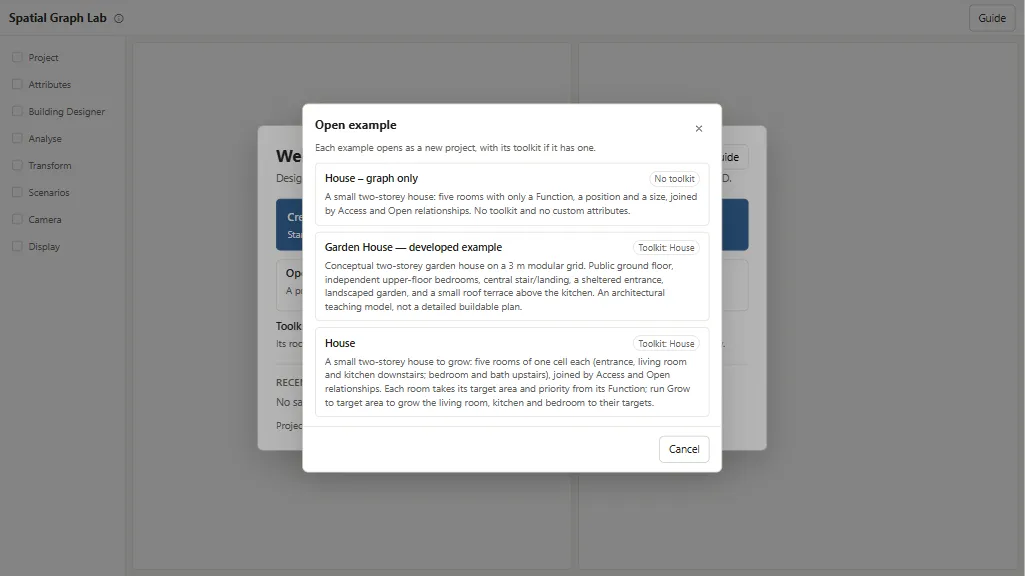
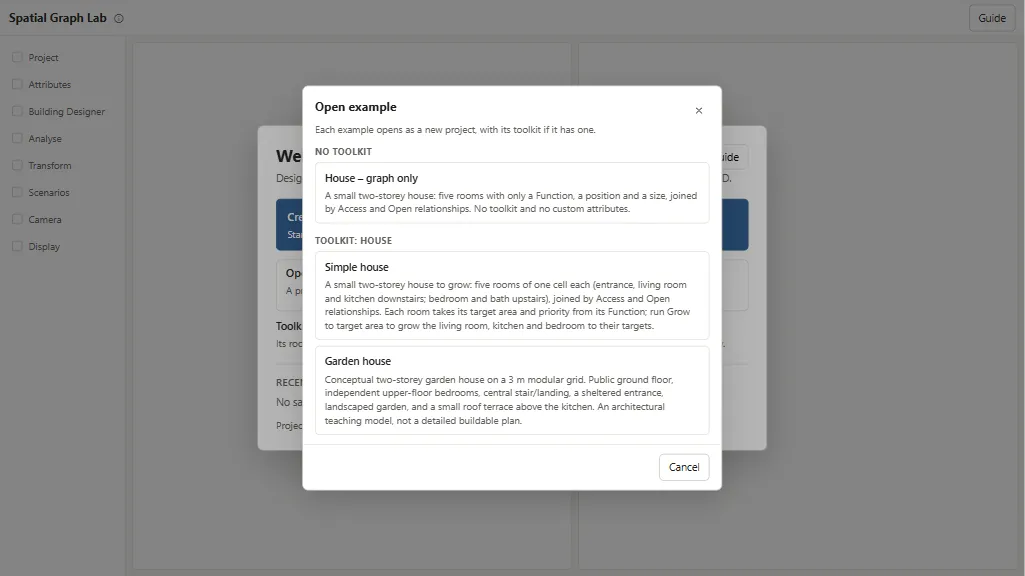
feat(welcome): Open example in sections; Simple house first
- Open example groups examples under "No toolkit" (House - graph only)
  and "Toolkit: House"; a toolkit's default design is listed first.
- House designs named after their files: "Simple house" and
  "Garden house". Guide text, README, tests and the Open example
  screenshot updated.

diff --git a/app/welcome/OpenExampleDialog.tsx b/app/welcome/OpenExampleDialog.tsx
@@ -1,6 +1,6 @@
 import { useEffect, useState } from 'react';
 import { Dialog } from '@app/ui/Dialog';
-import type { ExampleChoice, ExampleOption } from './welcomeModel';
+import { exampleSections, type ExampleChoice, type ExampleOption } from './welcomeModel';
 
 type ListState =
   | { readonly status: 'loading' }
@@ -8,9 +8,9 @@ type ListState =
   | { readonly status: 'error'; readonly message: string };
 
 /**
- * Open example… (owner decision 2026-11-20), from Welcome and the Project panel: the built-in House
- * (graph only, no toolkit) and every design of every toolkit, each with its name, description and
- * a "No toolkit" / "Toolkit: <name>" tag. Choosing one closes the dialog and opens it as a NEW
+ * Open example… (owner decision 2026-11-20), from Welcome and the Project panel, in sections: "No
+ * toolkit" (the built-in House, graph only), then one "Toolkit: <name>" section per toolkit with its
+ * designs (its default design first), each with its name and description. Choosing one closes the dialog and opens it as a NEW
  * project (`onOpen`); the list is loaded when the dialog opens (`load`).
  */
 export function OpenExampleDialog({
@@ -57,29 +57,30 @@ export function OpenExampleDialog({
           The examples could not be listed: {state.message}
         </p>
       )}
-      {state.status === 'ready' && (
-        <ul className="sgl-example-list" aria-label="Examples">
-          {state.items.map((option, index) => (
-            <li key={option.key}>
-              <button
-                type="button"
-                className="sgl-example"
-                data-example={option.key}
-                {...(index === 0 && { 'data-autofocus': true })}
-                disabled={option.problem !== null}
-                onClick={() => onOpen(option.choice)}
-              >
-                <span className="sgl-example-head">
-                  <span className="sgl-example-name">{option.name}</span>
-                  <span className="sgl-example-tag">{option.tag}</span>
-                </span>
-                {option.description && <span className="sgl-example-description">{option.description}</span>}
-                {option.problem && <span className="sgl-example-problem">⚠ {option.problem}</span>}
-              </button>
-            </li>
-          ))}
-        </ul>
-      )}
+      {state.status === 'ready' &&
+        exampleSections(state.items).map((section, s) => (
+          <section key={section.title} className="sgl-example-section" data-example-section={section.title}>
+            <h3 className="sgl-example-section-title">{section.title}</h3>
+            <ul className="sgl-example-list" aria-label={section.title}>
+              {section.items.map((option, index) => (
+                <li key={option.key}>
+                  <button
+                    type="button"
+                    className="sgl-example"
+                    data-example={option.key}
+                    {...(s === 0 && index === 0 && { 'data-autofocus': true })}
+                    disabled={option.problem !== null}
+                    onClick={() => onOpen(option.choice)}
+                  >
+                    <span className="sgl-example-name">{option.name}</span>
+                    {option.description && <span className="sgl-example-description">{option.description}</span>}
+                    {option.problem && <span className="sgl-example-problem">⚠ {option.problem}</span>}
+                  </button>
+                </li>
+              ))}
+            </ul>
+          </section>
+        ))}
     </Dialog>
   );
 }

diff --git a/app/welcome/welcome.test.ts b/app/welcome/welcome.test.ts
@@ -13,7 +13,7 @@ import exampleJson from '../document/examples/house.json';
 import { exportProject, NewProjectDialog, ProjectFiles } from './ProjectFiles';
 import { Welcome, type WelcomeProps } from './Welcome';
 import { createProject, openProjectText, openToolkitExample, openBuiltInExample, type WelcomeHost } from './welcomeFlow';
-import { exampleOptions, newProjectStart, projectFileName, recentRows } from './welcomeModel';
+import { exampleOptions, exampleSections, newProjectStart, projectFileName, recentRows } from './welcomeModel';
 import { designAssetIds, loadToolkitAssets } from '@app/extensions/toolkitExamples';
 import { importFacade3dm } from '@app/assets/importFacade';
 import { loadRhino3dm, RHINO3DM_VERSION } from '@app/assets/rhino/loader';
@@ -302,15 +302,20 @@ describe('Open example… (owner decision 2026-11-20)', () => {
 
   it('lists the built-in House first, then every toolkit design with its own name, description and toolkit tag', () => {
     const options = exampleOptions({ name: 'House – graph only', description: ' Five rooms. ' }, [
-      { toolkitId: 'house', toolkitName: 'House', designId: 'simple-house', name: 'House', description: null, problem: null },
-      { toolkitId: 'house', toolkitName: 'House', designId: 'garden-house', name: 'Garden House', description: 'Developed.', problem: null },
+      { toolkitId: 'house', toolkitName: 'House', designId: 'simple-house', name: 'Simple house', description: null, problem: null },
+      { toolkitId: 'house', toolkitName: 'House', designId: 'garden-house', name: 'Garden house', description: 'Developed.', problem: null },
     ]);
     expect(options.map((o) => [o.key, o.name, o.description, o.tag])).toEqual([
       ['built-in', 'House – graph only', 'Five rooms.', 'No toolkit'],
-      ['house/simple-house', 'House', null, 'Toolkit: House'],
-      ['house/garden-house', 'Garden House', 'Developed.', 'Toolkit: House'],
+      ['house/simple-house', 'Simple house', null, 'Toolkit: House'],
+      ['house/garden-house', 'Garden house', 'Developed.', 'Toolkit: House'],
     ]);
     expect(options[2]!.choice).toEqual({ kind: 'toolkit', toolkitId: 'house', designId: 'garden-house' });
+    // The dialog shows them in sections: No toolkit, then Toolkit: House (Simple house, then Garden house).
+    expect(exampleSections(options).map((sec) => [sec.title, sec.items.map((o) => o.name)])).toEqual([
+      ['No toolkit', ['House – graph only']],
+      ['Toolkit: House', ['Simple house', 'Garden house']],
+    ]);
   });
 
   it('opens the Garden House as a NEW project: toolkit active, custom attributes seeded, design and its façade asset', async () => {
@@ -321,7 +326,7 @@ describe('Open example… (owner decision 2026-11-20)', () => {
     if (!opened.ok) throw new Error(opened.message);
     expect(opened.projectId).not.toBe(first.projectId);
     const p = h.controller.getState().project!;
-    expect(p.meta.name).toBe('Garden House — developed example');
+    expect(p.meta.name).toBe('Garden house');
     expect(p.meta.description).toMatch(/^Conceptual two-storey garden house/);
     expect(p.meta.toolkit).toEqual({ id: 'house' });
     // The same attribute record as Create project with House (Target area, Priority).

diff --git a/app/extensions/toolkitExamples.ts b/app/extensions/toolkitExamples.ts
@@ -34,28 +34,31 @@ export interface ToolkitExample {
   readonly problem: string | null;
 }
 
-async function toolkitName(load: () => Promise<unknown>, fallback: string): Promise<string> {
+/** The toolkit's name and default design (its id and none when `toolkit.ts` cannot be read). */
+async function toolkitInfo(load: () => Promise<unknown>, fallback: string): Promise<{ readonly name: string; readonly defaultDesign: string | null }> {
   try {
     const mod = await load();
     const definition = typeof mod === 'object' && mod !== null && 'default' in mod ? (mod as { default: unknown }).default : undefined;
     const parsed = toolkitDefinitionSchema.safeParse(definition);
-    return parsed.success ? parsed.data.name : fallback;
+    return parsed.success ? { name: parsed.data.name, defaultDesign: parsed.data.defaultDesign ?? null } : { name: fallback, defaultDesign: null };
   } catch {
-    return fallback;
+    return { name: fallback, defaultDesign: null };
   }
 }
 
 /**
- * Every design of every toolkit, toolkits by id, designs by file. Loads each `toolkit.ts` (for
- * its name) and each design's text; never activates a toolkit. A design that cannot be read is
+ * Every design of every toolkit, toolkits by id; within a toolkit its `defaultDesign` first, then
+ * the others by file (owner 2026-11-20). Loads each `toolkit.ts` (for its name and default design)
+ * and each design's text; never activates a toolkit. A design that cannot be read is
  * listed with its `problem`, so it is not silently missing.
  */
 export async function listToolkitExamples(globs: ToolkitGlobs): Promise<readonly ToolkitExample[]> {
   const out: ToolkitExample[] = [];
   for (const source of discoverToolkits(globs).toolkits) {
     if (source.designs.length === 0) continue;
-    const name = await toolkitName(source.toolkit.load, source.id);
-    for (const design of source.designs) {
+    const { name, defaultDesign } = await toolkitInfo(source.toolkit.load, source.id);
+    const designs = [...source.designs].sort((a, b) => Number(b.stem === defaultDesign) - Number(a.stem === defaultDesign));
+    for (const design of designs) {
       const base = { toolkitId: source.id, toolkitName: name, designId: design.stem, file: design.file };
       try {
         const read = readDesignJson(await design.load());

diff --git a/app/ui/guide/screenshots.ts b/app/ui/guide/screenshots.ts
@@ -19,7 +19,7 @@ export const CAPTURED_SHOTS: Readonly<Record<string, CapturedShot>> = captured a
 /** Alt text per entry id (what the screenshot shows and what each marker points at). */
 export const SHOT_ALT: Readonly<Record<string, string>> = {
   'howto-start': 'The Welcome screen: 1 Create project, 2 Open project, 3 Open example…, 4 Recent projects.',
-  'howto-open-example': 'Open example… over the Welcome screen: 1 the Open example dialog, listing House – graph only (No toolkit) and the House designs, 2 Garden House, a design tagged Toolkit: House.',
+  'howto-open-example': 'Open example… over the Welcome screen: 1 the Open example dialog, listing House – graph only (No toolkit) and the House designs, 2 Garden house, a design in the Toolkit: House section.',
   'howto-select-inspect': 'The app with the Living room selected: 1 the node in Graph 2D, 2 the same room highlighted in the Building view, 3 its attributes in Properties.',
   'howto-add-room': 'A new room 6 added: 1 the + Add node button, 2 its Function in Properties, 3 its Position and Size.',
   'howto-connect': 'A new relationship Entrance–Bath: 1 the Entrance node, 2 the Add connection… button, 3 the Bath node, 4 Access or Open in Properties.',

diff --git a/app/welcome/welcome.css b/app/welcome/welcome.css
@@ -475,7 +475,7 @@ input.sgl-project-name-input:focus {
   font-size: 13px;
 }
 
-/* Open example… (2026-11-20): one button per example, name + tag on one row, description below. */
+/* Open example… (2026-11-20): sections (No toolkit, Toolkit: <name>), one button per example, name then description. */
 .sgl-open-example {
   width: min(560px, calc(100vw - 32px));
 }
@@ -511,24 +511,20 @@ input.sgl-project-name-input:focus {
   opacity: 0.7;
   cursor: default;
 }
-.sgl-example-head {
-  display: flex;
-  align-items: baseline;
-  justify-content: space-between;
-  gap: 12px;
+.sgl-example-section + .sgl-example-section {
+  margin-top: 14px;
+}
+.sgl-example-section-title {
+  margin: 0 0 6px;
+  color: var(--muted);
+  font-size: 12px;
+  font-weight: 650;
+  letter-spacing: 0.04em;
+  text-transform: uppercase;
 }
 .sgl-example-name {
   font-weight: 600;
   overflow-wrap: anywhere;
-}
-.sgl-example-tag {
-  flex: none;
-  padding: 1px 6px;
-  border: 1px solid var(--line);
-  border-radius: 999px;
-  color: var(--muted);
-  font-size: 12px;
-  white-space: nowrap;
 }
 .sgl-example-description {
   color: var(--muted);

diff --git a/app/ui/guide/content.ts b/app/ui/guide/content.ts
@@ -403,7 +403,7 @@ const TEXT: readonly GuideTabContent[] = [
         id: 'howto-open-example',
         title: 'Open an example',
         summary: 'Open example… opens a built-in or toolkit example as a new project, ready to explore; the project you had open is not changed.',
-        example: '1. Open example… on Welcome or in Project. 2. Pick one: House – graph only (No toolkit), or a design tagged Toolkit: House, e.g. House or Garden House. 3. It opens with its toolkit and custom attributes, its looks by Function, its corridors and any imported façade. 4. Set a view to Building to see it.',
+        example: '1. Open example… on Welcome or in Project. 2. Pick one: House – graph only (No toolkit), or a design under Toolkit: House: Simple house or Garden house. 3. It opens with its toolkit and custom attributes, its looks by Function, its corridors and any imported façade. 4. Set a view to Building to see it.',
         diagram: 'howto-open-example',
         learnMore: LINKS.envelope,
       },

diff --git a/app/welcome/welcomeModel.ts b/app/welcome/welcomeModel.ts
@@ -76,6 +76,20 @@ export function exampleOptions(
   ];
 }
 
+/**
+ * The examples in sections, in list order: one per tag ("No toolkit", then "Toolkit: <name>" per
+ * toolkit), each keeping its examples' order.
+ */
+export function exampleSections(options: readonly ExampleOption[]): { readonly title: string; readonly items: readonly ExampleOption[] }[] {
+  const sections: { title: string; items: ExampleOption[] }[] = [];
+  for (const option of options) {
+    const section = sections.find((s) => s.title === option.tag);
+    if (section) section.items.push(option);
+    else sections.push({ title: option.tag, items: [option] });
+  }
+  return sections;
+}
+
 export type RecentRow =
   | { readonly kind: 'ok'; readonly projectId: string; readonly name: string; readonly detail: string; readonly description: string | null; readonly unsaved: boolean }
   | { readonly kind: 'unreadable'; readonly projectId: string; readonly detail: string; readonly quarantined: boolean };

diff --git a/app/extensions/toolkitExamples.test.ts b/app/extensions/toolkitExamples.test.ts
@@ -54,11 +54,11 @@ describe('toolkit examples (Open example…)', () => {
     expect(examples.map((e) => e.toolkitName)).toEqual(['odd']);
   });
 
-  it('lists the two House designs of the repository, all openable', async () => {
+  it('lists the two House designs of the repository, the default design (simple-house) first, all openable', async () => {
     const house = (await listToolkitExamples(TOOLKIT_GLOBS)).filter((e) => e.toolkitId === 'house');
     expect(house.map((e) => [e.designId, e.name, e.toolkitName, e.problem])).toEqual([
-      ['garden-house', 'Garden House — developed example', 'House', null],
-      ['simple-house', 'House', 'House', null],
+      ['simple-house', 'Simple house', 'House', null],
+      ['garden-house', 'Garden house', 'House', null],
     ]);
   });
 });

diff --git a/app/extensions/houseToolkit.test.ts b/app/extensions/houseToolkit.test.ts
@@ -180,7 +180,7 @@ describe('the garden house design', () => {
 
   it('is valid, uses only House Functions, and every relationship is direct (its rooms touch)', () => {
     const doc = gardenHouse();
-    expect(doc.metadata.name).toBe('Garden House — developed example');
+    expect(doc.metadata.name).toBe('Garden house');
     expect(doc.nodes).toHaveLength(14);
     expect(doc.edges).toHaveLength(14);
     const ids = new Set(house.functions.map((t) => t.definition.id));

diff --git a/toolkits/house/README.md b/toolkits/house/README.md
@@ -15,9 +15,9 @@ The reference toolkit of Spatial Graph Lab. Don't edit this folder: copy it to m
   To change one room, select it and set the value in **Properties**. The other rooms keep their Function's default.
 - **One transform**, *Grow to target area* (`algorithms/grow-to-target-area.ts`), with one optional parameter, `houses`. Transform shows it as **Houses** with a one-line description: both come from the parameter's `label` and `description`.
 - **One design analysis**, *Below target area* (`algorithms/below-target-area.ts`, `defineDesignAnalysis`), in Analyse › Network: it lights up the rooms whose floor area is still below their `targetArea`, colours every room by the m² it is missing and counts them. Its `uses` names `targetArea`, so it is tagged **This project** and works only where that field exists. Run it before and after *Grow to target area*.
-- **Two designs** (both in **Open example…**, tagged `Toolkit: House`):
-  - `designs/simple-house.json`, **House**: the two-storey example house, every room one cell to start with, ready for *Grow to target area*. It is the toolkit's `defaultDesign`: `npm run check:toolkit` runs the transform on it, and a new project takes its Building settings.
-  - `designs/garden-house.json`, **Garden House — developed example**: a developed two-storey garden house with a central stair (see *The garden house* below).
+- **Two designs** (both in **Open example…**, in the `Toolkit: House` section, Simple house first):
+  - `designs/simple-house.json`, **Simple house**: the two-storey example house, every room one cell to start with, ready for *Grow to target area*. It is the toolkit's `defaultDesign`: `npm run check:toolkit` runs the transform on it, and a new project takes its Building settings.
+  - `designs/garden-house.json`, **Garden house**: a developed two-storey garden house with a central stair (see *The garden house* below).
 - **Twelve Function colours**, declared in each `functions/*.ts` (`colour`): Entrance violet `#8e6bb8`, Living amber `#e8a33d`, Kitchen terracotta `#d4623b`, Bedroom blue `#4f7cc0`, Bath aqua `#3fa9b5`, Circulation stone grey `#9b9a8f`, Garden green `#4f8f3a`, Stair / landing slate `#56606e`, Dining raspberry `#c2477d`, Study brown `#8b5e3c`, Utility olive `#8a8d2e`, Roof terrace mint `#7cc9a6`. A project can change them in the Functions dialog.
 - **One façade file**, `assets/facade-ex1.3dm` (12.5 MB; a 3 × 3 m bay with arched openings), used by the garden house's Living and Dining.
 

diff --git a/docs/DECISIONS.md b/docs/DECISIONS.md
@@ -345,3 +345,7 @@ Completes "One vocabulary". Not distributed: no migration; the old names are sim
 - **Kits are built in the browser on download** (`buildKit`, `app/ui/guide/zip.ts`: stored entries, fixed timestamps, LF, deterministic). `scripts/build-ai-kit.mjs`, `npm run build:ai-kit` and `public/downloads/spatial-graph-lab-ai-kit.zip` are removed. Zip names: `spatial-graph-lab-graph-kit.zip`, `spatial-graph-lab-design-kit.zip`, `spatial-graph-lab-design-kit-<toolkit id | project>.zip`, each with a folder of the same name.
 - **Design kit:** `PROMPT.md` (any project without PROJECT.md; with it, may name the project's Functions and fields and must list them in `uses`), `README.md`, `student-api.d.ts` (exactly the upload shim's names), examples `largest-room-per-level.ts` (no input), `same-function-neighbours.ts` (one room), `below-target-area.ts` (the House analysis, uses `targetArea`). `tsconfig.json` type-checks both kits' examples. `app/analysis/aiKit.test.ts` checks the zips, the declarations, the templates and runs every example through the real upload pipeline.
 - `UPLOAD_INFO` now says what an uploaded analysis is (reads the design, never changes it); the upload ⓘ opens at 560 × 600. The Analyse tab's summary reads "Reads your design and shows a result. Never changes it." The smoke helper's House design is `simple-house.json`.
+
+## Open example in sections; House designs named after their files (20 November 2026, owner decision)
+- **Owner:** Open example… groups the examples in sections (`exampleSections`, one per tag): **No toolkit** (House – graph only), then **Toolkit: <name>** per toolkit. The per-example tag is gone (the section heading says it). Within a toolkit, its `defaultDesign` comes first, then the other designs by file (`listToolkitExamples`).
+- The House designs are named after their files: `simple-house.json` → **Simple house** (was "House"), `garden-house.json` → **Garden house** (was "Garden House — developed example"). The `howto-open-example` screenshot was retaken.
